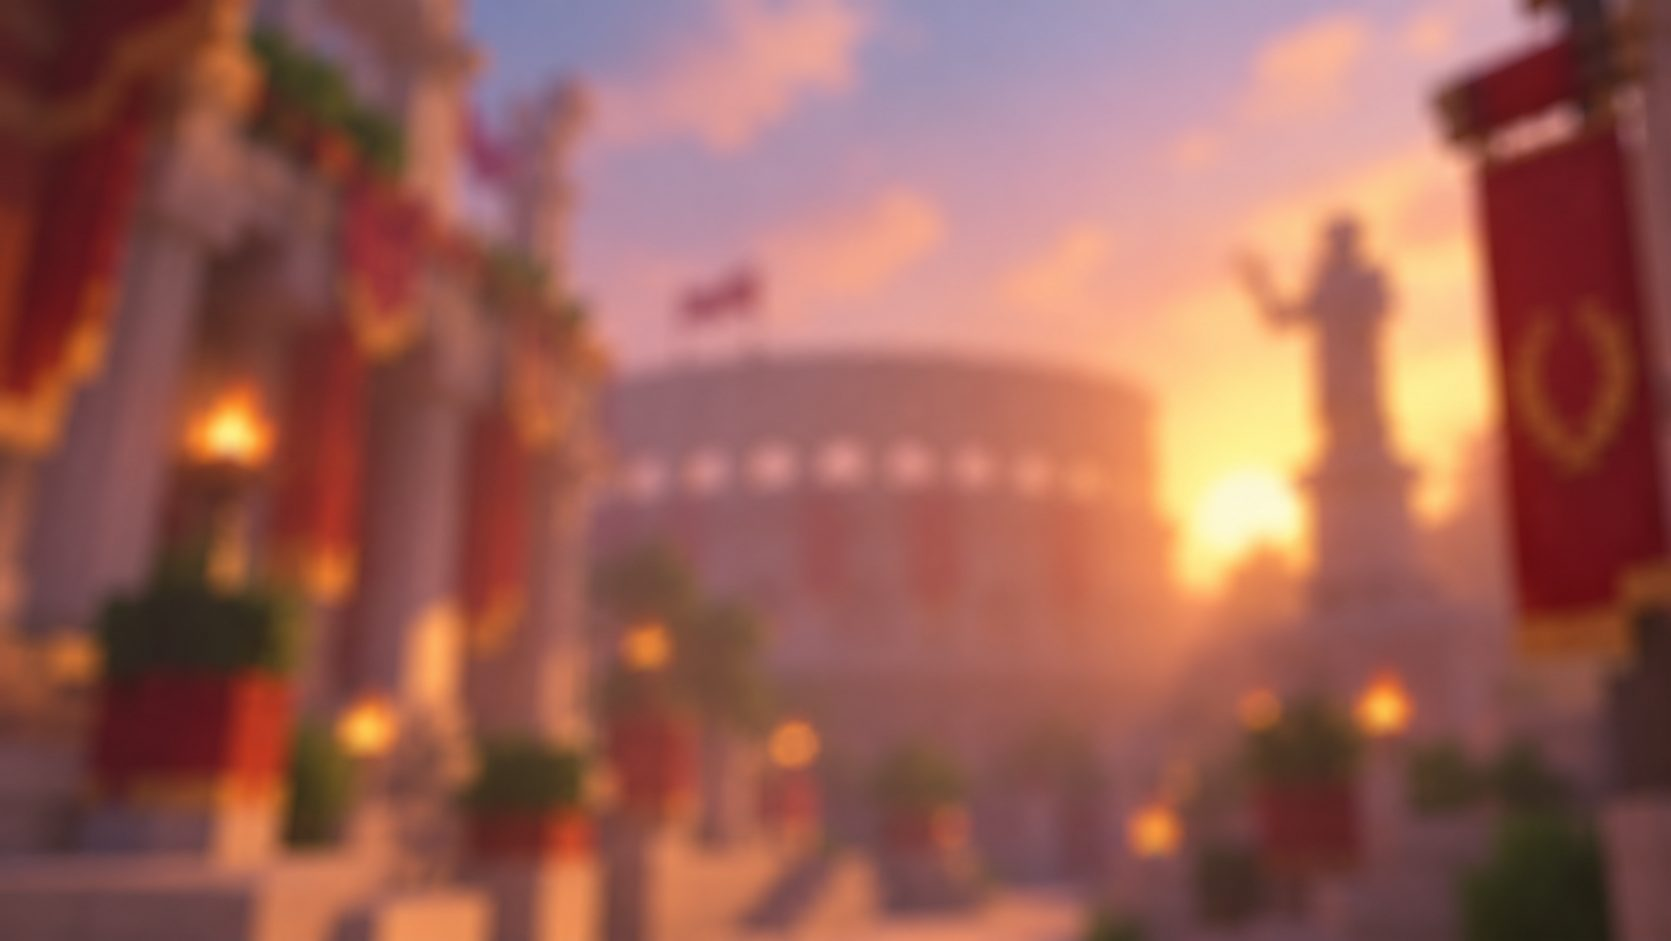
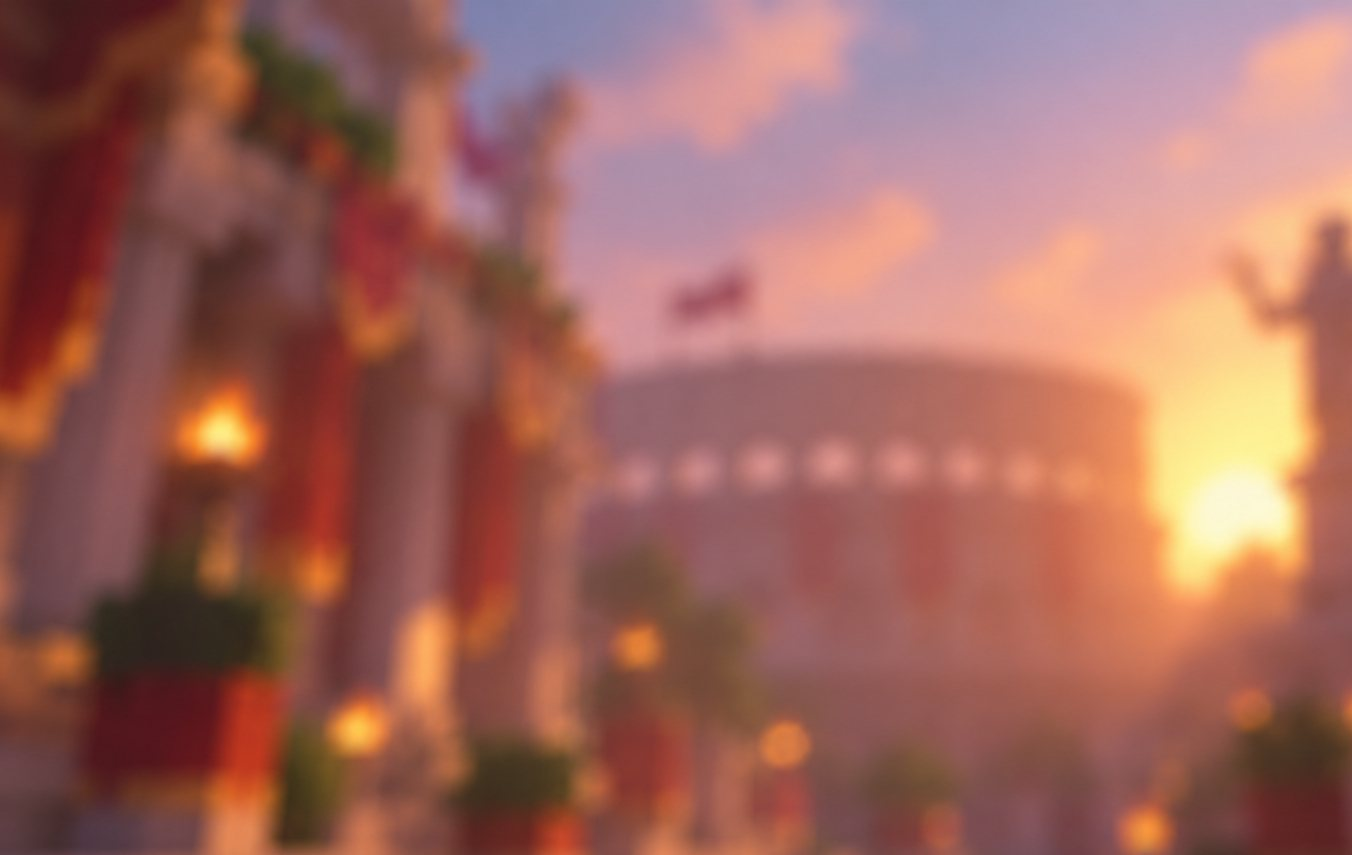
Forum: nuovo sfondo della testata, meno zoom e più luminoso
Claude-Session: https://claude.ai/code/session_01SiY5CGUp3guNsAmoJ9JZoU

diff --git a/components/forum/ForumHero.tsx b/components/forum/ForumHero.tsx
@@ -5,8 +5,8 @@ import { Words } from "@/components/ui/Words";
 export function ForumHero({ kicker, title, lead }: { kicker: string; title: string; lead: string }) {
   return (
     <section className="relative isolate overflow-hidden">
-      <Image src="/images/forum-bg.jpg" alt="" fill priority sizes="100vw" className="kenburns -z-20 object-cover" />
-      <div className="absolute inset-0 -z-10 bg-gradient-to-r from-black/75 via-black/45 to-black/10" />
+      <Image src="/images/forum-bg.jpg" alt="" fill priority sizes="100vw" className="-z-20 object-cover object-[center_35%]" />
+      <div className="absolute inset-0 -z-10 bg-gradient-to-r from-black/65 via-black/25 to-transparent" />
       <div className="absolute inset-x-0 bottom-0 -z-10 h-24 bg-gradient-to-b from-transparent to-[#0b0a0c]" />
 
       <Image
@@ -20,7 +20,7 @@ export function ForumHero({ kicker, title, lead }: { kicker: string; title: stri
         data-hero-in
       />
 
-      <div className="wrap relative flex min-h-[360px] items-center py-16 md:min-h-[460px] lg:min-h-[520px]">
+      <div className="wrap relative flex min-h-[360px] items-center py-16 md:min-h-[480px] lg:min-h-[600px]">
         <div className="max-w-xl text-white md:max-w-[52%]">
           <p className="mb-5 text-sm font-semibold uppercase tracking-[0.2em] text-white/80 hero-in" data-hero-in>
             {kicker}
